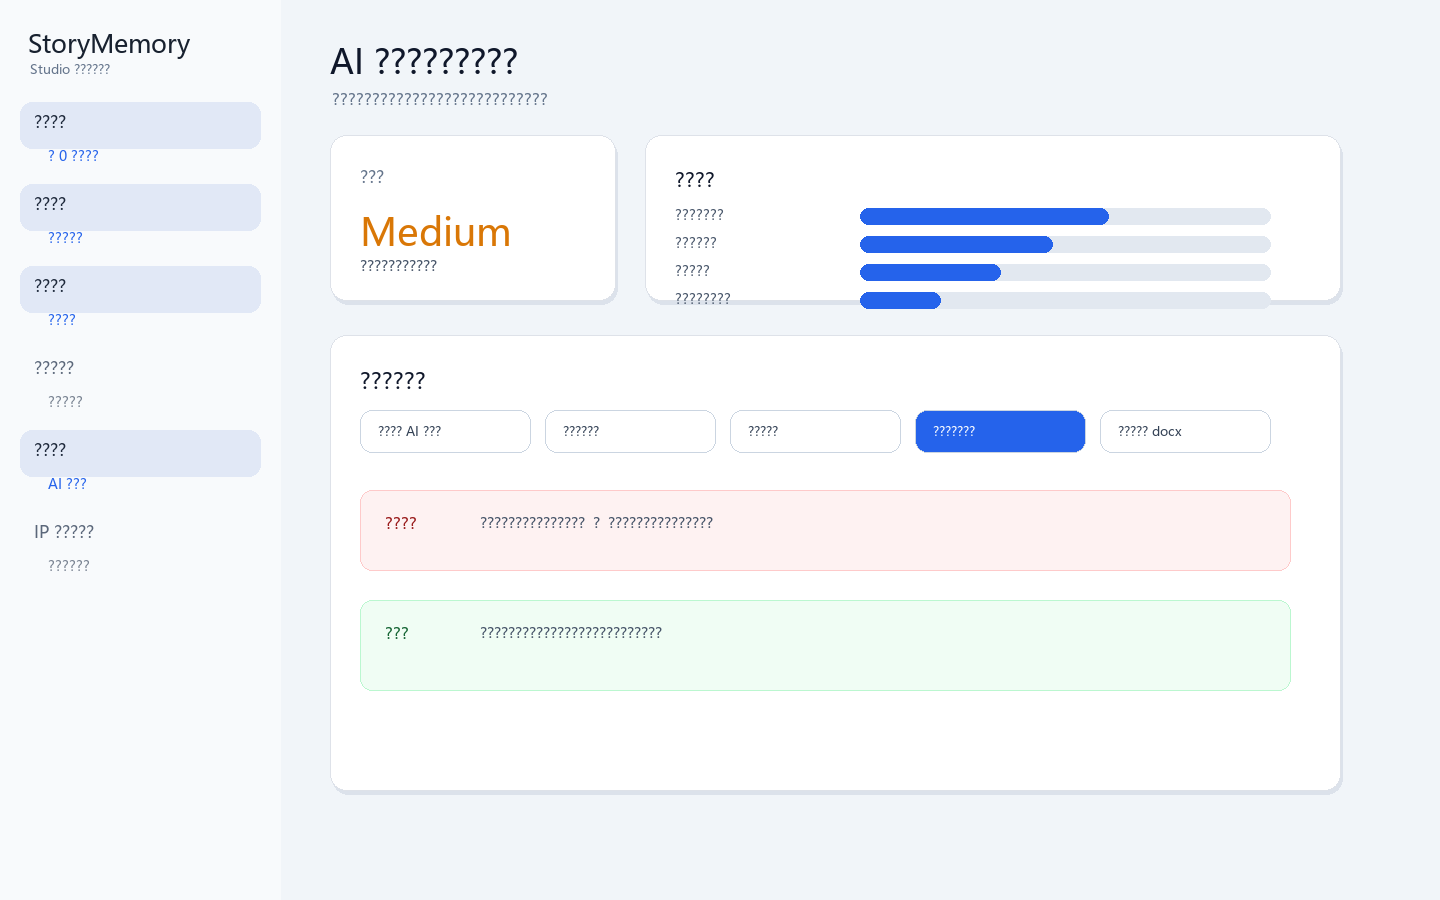
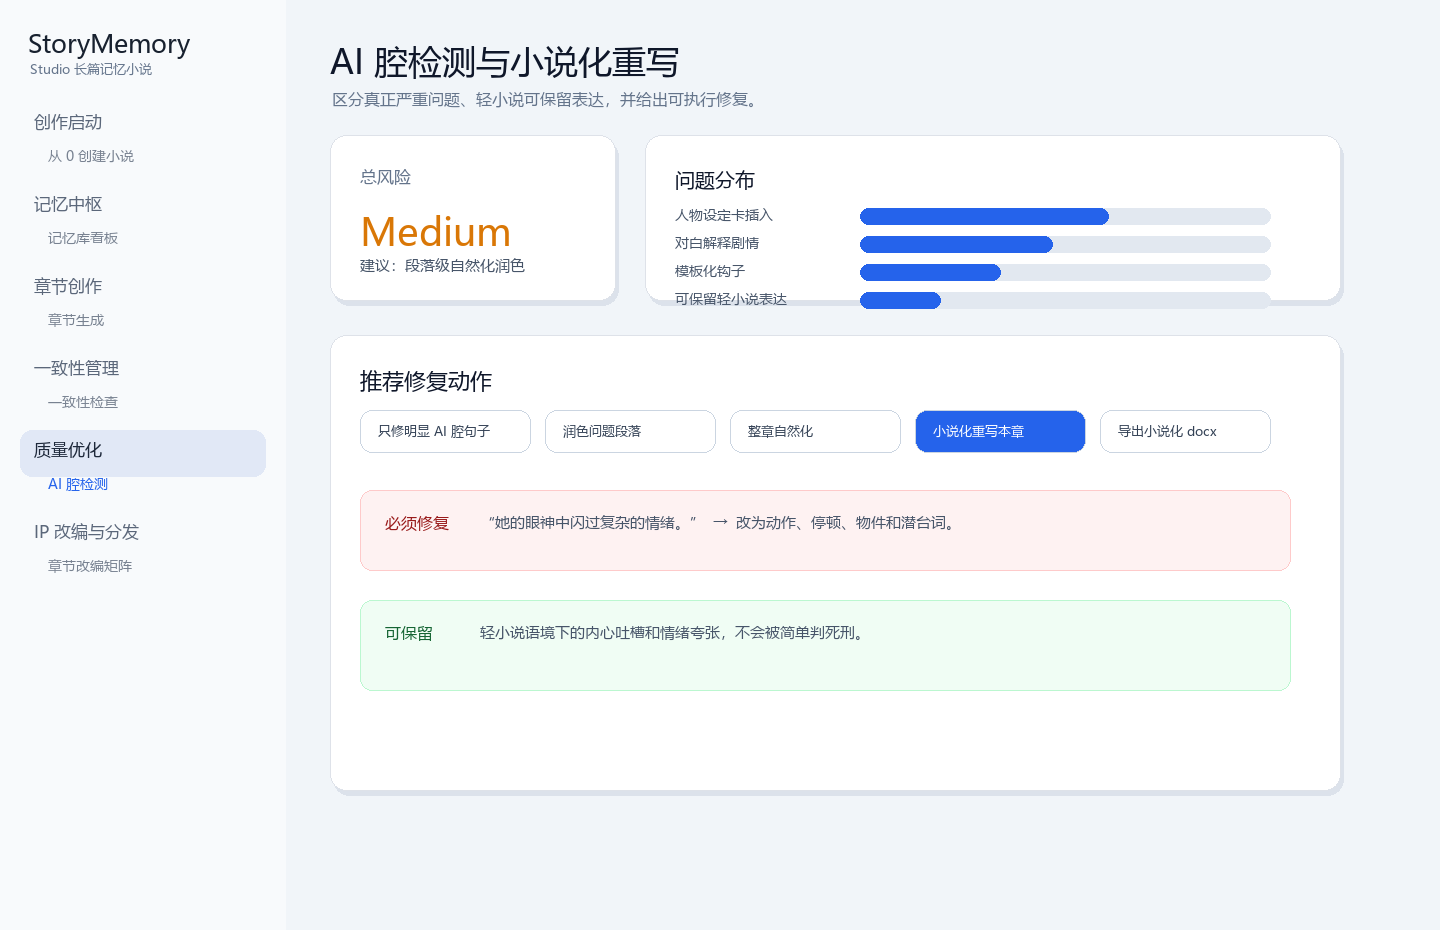
Fix README screenshots and add tech stack overview

diff --git a/scripts/generate_readme_screenshots.py b/scripts/generate_readme_screenshots.py
@@ -1,0 +1,177 @@
+from __future__ import annotations
+
+from pathlib import Path
+
+from PIL import Image, ImageDraw, ImageFont
+
+
+ROOT = Path(__file__).resolve().parents[1]
+OUT = ROOT / "docs" / "screenshots"
+OUT.mkdir(parents=True, exist_ok=True)
+
+FONT_CANDIDATES = [
+    Path(r"C:\Windows\Fonts\msyh.ttc"),
+    Path(r"C:\Windows\Fonts\simhei.ttf"),
+    Path(r"C:\Windows\Fonts\simsun.ttc"),
+    Path(r"C:\Windows\Fonts\arial.ttf"),
+]
+FONT_PATH = next((p for p in FONT_CANDIDATES if p.exists()), None)
+
+
+def font(size: int) -> ImageFont.FreeTypeFont | ImageFont.ImageFont:
+    if FONT_PATH:
+        return ImageFont.truetype(str(FONT_PATH), size)
+    return ImageFont.load_default()
+
+
+def rounded(draw: ImageDraw.ImageDraw, xy: tuple[int, int, int, int], radius: int, fill, outline=None, width: int = 1) -> None:
+    draw.rounded_rectangle(xy, radius=radius, fill=fill, outline=outline, width=width)
+
+
+def shadow_card(draw: ImageDraw.ImageDraw, xy: tuple[int, int, int, int], radius: int = 16) -> None:
+    x1, y1, x2, y2 = xy
+    rounded(draw, (x1 + 3, y1 + 5, x2 + 3, y2 + 5), radius, (220, 226, 235))
+    rounded(draw, xy, radius, (255, 255, 255), (222, 226, 233))
+
+
+def sidebar(draw: ImageDraw.ImageDraw, active_section: str, active_page: str) -> None:
+    draw.rectangle((0, 0, 285, 930), fill=(248, 250, 252))
+    draw.text((28, 26), "StoryMemory", font=font(25), fill=(24, 33, 47))
+    draw.text((30, 60), "Studio 长篇记忆小说", font=font(13), fill=(100, 116, 139))
+    y = 110
+    sections = [
+        ("创作启动", "从 0 创建小说"),
+        ("记忆中枢", "记忆库看板"),
+        ("章节创作", "章节生成"),
+        ("一致性管理", "一致性检查"),
+        ("质量优化", "AI 腔检测"),
+        ("IP 改编与分发", "章节改编矩阵"),
+    ]
+    for section, page in sections:
+        active = section == active_section
+        if active:
+            rounded(draw, (20, y - 8, 265, y + 38), 12, (225, 232, 246))
+        draw.text((34, y), section, font=font(17), fill=(30, 41, 59) if active else (91, 103, 122))
+        draw.text((48, y + 36), page, font=font(14), fill=(37, 99, 235) if active else (120, 130, 145))
+        y += 82
+
+
+def header(draw: ImageDraw.ImageDraw, title: str, subtitle: str) -> None:
+    draw.text((330, 38), title, font=font(34), fill=(15, 23, 42))
+    draw.text((332, 88), subtitle, font=font(16), fill=(100, 116, 139))
+
+
+def dashboard() -> None:
+    img = Image.new("RGB", (1440, 930), (241, 245, 249))
+    draw = ImageDraw.Draw(img)
+    sidebar(draw, "创作启动", "从 0 创建小说")
+    header(draw, "StoryMemory Studio", "SQL 结构化记忆库 + 长上下文 Prompt 编排器 + 长篇小说创作中控台")
+
+    stats = [("当前项目", "玫瑰大厦"), ("章节", "10"), ("人物卡", "14"), ("未回收伏笔", "9")]
+    x = 330
+    for label, value in stats:
+        shadow_card(draw, (x, 130, x + 235, 220))
+        draw.text((x + 22, 150), label, font=font(14), fill=(100, 116, 139))
+        draw.text((x + 22, 178), value, font=font(26), fill=(15, 23, 42))
+        x += 260
+
+    cards = [
+        ("创作启动", "从零创建小说、导入已有章节、管理项目。", "从 0 创建小说 / 项目管理 / 章节导入"),
+        ("记忆中枢", "人物、伏笔、时间线、世界观规则沉淀为可编辑数据库。", "记忆库看板 / 记忆编辑器 / 备份恢复"),
+        ("章节创作", "构建上下文、生成章节、编辑导出、接入文风画像。", "章节生成 / 文风学习器 / 模型设置"),
+        ("质量优化", "检测 AI 腔、诊断节奏、平台适配和伏笔回收。", "AI 腔检测 / 剧情节奏 / 平台适配"),
+    ]
+    for (title, desc, items), (x, y) in zip(cards, [(330, 265), (815, 265), (330, 505), (815, 505)]):
+        shadow_card(draw, (x, y, x + 445, y + 185))
+        draw.text((x + 24, y + 24), title, font=font(23), fill=(15, 23, 42))
+        draw.text((x + 24, y + 65), desc, font=font(15), fill=(71, 85, 105))
+        draw.text((x + 24, y + 108), items, font=font(14), fill=(37, 99, 235))
+        rounded(draw, (x + 24, y + 138, x + 120, y + 168), 10, (37, 99, 235))
+        draw.text((x + 54, y + 143), "进入", font=font(14), fill=(255, 255, 255))
+
+    shadow_card(draw, (330, 735, 1340, 890))
+    draw.text((360, 760), "技术架构", font=font(22), fill=(15, 23, 42))
+    tech = "SQLite / SQLAlchemy / Pydantic / Streamlit / Typer / Rich / httpx / Ollama / DeepSeek / python-docx / PyInstaller"
+    draw.text((360, 803), tech, font=font(16), fill=(37, 99, 235))
+    draw.text((360, 837), "本地结构化记忆库 + DeepSeek 百万 token 长上下文编排 + AI 腔治理 + IP 改编导出", font=font(15), fill=(71, 85, 105))
+    img.save(OUT / "dashboard.png")
+
+
+def context_builder() -> None:
+    img = Image.new("RGB", (1440, 930), (241, 245, 249))
+    draw = ImageDraw.Draw(img)
+    sidebar(draw, "章节创作", "章节生成")
+    header(draw, "章节生成", "按 S/A/B/C/D 优先级构建上下文，不把全书粗暴塞进 Prompt。")
+    shadow_card(draw, (330, 135, 665, 820))
+    draw.text((360, 165), "生成设置", font=font(22), fill=(15, 23, 42))
+    labels = ["本章目标", "本章大纲", "上下文预算", "模型提供方", "文风画像"]
+    values = ["推进继承权暗线", "晚宴后，旧账本浮出水面", "deepseek_long 800k", "Ollama / DeepSeek / OpenAI", "现代都市轻小说"]
+    y = 215
+    for label, value in zip(labels, values):
+        draw.text((360, y), label, font=font(14), fill=(100, 116, 139))
+        rounded(draw, (360, y + 24, 625, y + 70), 10, (248, 250, 252), (203, 213, 225))
+        draw.text((378, y + 38), value, font=font(13), fill=(51, 65, 85))
+        y += 92
+    rounded(draw, (360, 705, 510, 748), 12, (37, 99, 235))
+    draw.text((390, 716), "构建上下文", font=font(15), fill=(255, 255, 255))
+
+    shadow_card(draw, (700, 135, 1340, 820))
+    draw.text((730, 165), "Context Preview", font=font(22), fill=(15, 23, 42))
+    blocks = [
+        ("S 当前任务强相关", "当前章节目标、出场人物完整人物卡、相关伏笔、上一章事实"),
+        ("A 必须遵守硬设定", "世界观硬规则、禁止违背规则、时间线关键节点"),
+        ("B 长线辅助信息", "主线剧情、人物关系变化、未解决问题、道具状态"),
+        ("C 风格与平台适配", "文风画像、反 AI 腔规则、平台节奏、对话风格"),
+        ("D 压缩背景信息", "早期章节摘要树、全书总纲、历史归档信息"),
+    ]
+    colors = [(219, 234, 254), (220, 252, 231), (254, 249, 195), (243, 232, 255), (226, 232, 240)]
+    y = 215
+    for (title, body), color in zip(blocks, colors):
+        rounded(draw, (730, y, 1305, y + 75), 12, color, (203, 213, 225))
+        draw.text((750, y + 12), title, font=font(16), fill=(15, 23, 42))
+        draw.text((750, y + 40), body, font=font(13), fill=(71, 85, 105))
+        y += 93
+    img.save(OUT / "context-builder.png")
+
+
+def ai_tone() -> None:
+    img = Image.new("RGB", (1440, 930), (241, 245, 249))
+    draw = ImageDraw.Draw(img)
+    sidebar(draw, "质量优化", "AI 腔检测")
+    header(draw, "AI 腔检测与小说化重写", "区分真正严重问题、轻小说可保留表达，并给出可执行修复。")
+    shadow_card(draw, (330, 135, 615, 300))
+    draw.text((360, 165), "总风险", font=font(17), fill=(100, 116, 139))
+    draw.text((360, 205), "Medium", font=font(38), fill=(217, 119, 6))
+    draw.text((360, 255), "建议：段落级自然化润色", font=font(15), fill=(71, 85, 105))
+    shadow_card(draw, (645, 135, 1340, 300))
+    draw.text((675, 165), "问题分布", font=font(20), fill=(15, 23, 42))
+    y = 205
+    for name, value in [("人物设定卡插入", 62), ("对白解释剧情", 48), ("模板化钩子", 35), ("可保留轻小说表达", 20)]:
+        draw.text((675, y), name, font=font(14), fill=(71, 85, 105))
+        rounded(draw, (860, y + 3, 1270, y + 19), 8, (226, 232, 240))
+        rounded(draw, (860, y + 3, 860 + value * 4, y + 19), 8, (37, 99, 235))
+        y += 28
+
+    shadow_card(draw, (330, 335, 1340, 790))
+    draw.text((360, 365), "推荐修复动作", font=font(22), fill=(15, 23, 42))
+    x = 360
+    for action in ["只修明显 AI 腔句子", "润色问题段落", "整章自然化", "小说化重写本章", "导出小说化 docx"]:
+        active = action == "小说化重写本章"
+        rounded(draw, (x, 410, x + 170, 452), 12, (37, 99, 235) if active else (255, 255, 255), (203, 213, 225))
+        draw.text((x + 18, 422), action, font=font(13), fill=(255, 255, 255) if active else (51, 65, 85))
+        x += 185
+
+    rounded(draw, (360, 490, 1290, 570), 12, (254, 242, 242), (254, 202, 202))
+    draw.text((385, 512), "必须修复", font=font(16), fill=(153, 27, 27))
+    draw.text((480, 512), "“她的眼神中闪过复杂的情绪。”  →  改为动作、停顿、物件和潜台词。", font=font(15), fill=(71, 85, 105))
+    rounded(draw, (360, 600, 1290, 690), 12, (240, 253, 244), (187, 247, 208))
+    draw.text((385, 622), "可保留", font=font(16), fill=(22, 101, 52))
+    draw.text((480, 622), "轻小说语境下的内心吐槽和情绪夸张，不会被简单判死刑。", font=font(15), fill=(71, 85, 105))
+    img.save(OUT / "ai-tone-detector.png")
+
+
+if __name__ == "__main__":
+    dashboard()
+    context_builder()
+    ai_tone()
+    print(f"screenshots written to {OUT}")

diff --git a/app/ui/layout.py b/app/ui/layout.py
@@ -58,6 +58,11 @@ def inject_css() -> None:
         .story-tag { display: inline-block; border: 1px solid var(--story-line); background: #f8fafc; color: #475569; border-radius: 999px; padding: .2rem .48rem; font-size: .78rem; line-height: 1.2; }
         .story-workflow { background: #fff; border: 1px solid var(--story-line); border-radius: 8px; padding: 1rem; margin-top: .8rem; }
         .story-workflow h3 { margin: 0 0 .75rem 0; font-size: 1rem; }
+        .story-muted-line { color: var(--story-muted); font-size: .9rem; line-height: 1.65; margin: -.25rem 0 .85rem 0; }
+        .story-tech-grid { display: grid; grid-template-columns: repeat(4, minmax(0, 1fr)); gap: .7rem; }
+        .story-mini-card { border: 1px solid var(--story-line); border-radius: 8px; padding: .75rem; background: #f8fafc; min-height: 105px; }
+        .story-mini-card b { display: block; color: var(--story-ink); font-size: .9rem; margin-bottom: .35rem; }
+        .story-mini-card span { display: block; color: var(--story-muted); font-size: .8rem; line-height: 1.55; }
         .story-steps { display: grid; grid-template-columns: repeat(4, minmax(0, 1fr)); gap: .7rem; }
         .story-step { border: 1px solid var(--story-line); border-radius: 8px; padding: .75rem; background: #f8fafc; }
         .story-step b { display: block; font-size: .9rem; margin-bottom: .3rem; }
@@ -203,6 +208,7 @@ def render_dashboard(project: str | None) -> None:
     snapshot = dashboard_snapshot(project)
     _render_dashboard_intro(project, snapshot)
     _render_metrics(project, snapshot)
+    _render_tech_stack()
 
     st.subheader("功能板块")
     items = list(NAVIGATION.items())
@@ -232,6 +238,41 @@ def render_dashboard(project: str | None) -> None:
                     st.rerun()
 
     _render_workflow()
+
+
+def _render_tech_stack() -> None:
+    tech_items = [
+        ("本地数据", "SQLite + SQLAlchemy，项目数据默认保存在本机 data/ 目录。"),
+        ("长上下文编排", "Context Builder 按 S/A/B/C/D 优先级组织 DeepSeek 百万 token 级上下文。"),
+        ("模型接入", "支持 DeepSeek、OpenAI-compatible、OpenAI 与 Ollama 本地模型。"),
+        ("前端界面", "Streamlit 本地 Web UI，可通过 PyInstaller 打包为 Windows exe。"),
+        ("结构化校验", "Pydantic 校验 LLM JSON 输出，并带有 JSON 修复机制。"),
+        ("导出能力", "python-docx 导出 docx，支持 md、txt、json 等文本资产。"),
+        ("质量治理", "AI 腔检测、humanizer-zh、小说化重写、节奏诊断与一致性检查。"),
+        ("IP 改编", "章节可转漫画分镜、短剧脚本、视频分镜、小红书文案和海报提示词。"),
+    ]
+    cards = "".join(
+        f"""
+        <div class="story-mini-card">
+          <b>{title}</b>
+          <span>{body}</span>
+        </div>
+        """
+        for title, body in tech_items
+    )
+    st.markdown(
+        f"""
+        <div class="story-workflow">
+          <h3>技术架构</h3>
+          <p class="story-muted-line">
+            StoryMemory Studio 使用“本地结构化记忆库 + 长上下文 Prompt 编排 + 多模型接入 + 质量反馈闭环”的架构，
+            让长篇创作既能保留可编辑的事实来源，也能利用 DeepSeek 等长上下文模型做全局理解与一致性检查。
+          </p>
+          <div class="story-tech-grid">{cards}</div>
+        </div>
+        """,
+        unsafe_allow_html=True,
+    )
 
 
 def render_selected_page(project: str | None, section: str, page: str) -> None:

diff --git a/README.md b/README.md
@@ -196,6 +196,42 @@ StoryMemory Studio improves long-context hit rate by:
 
 ---
 
+## Technology Stack / 技术栈
+
+StoryMemory Studio is intentionally built as a practical local desktop MVP, not a cloud-only demo.
+
+StoryMemory Studio 的技术选型优先考虑：本地可运行、数据可控、方便打包、方便后续扩展。
+
+| Layer | Technology | Why it is used |
+| --- | --- | --- |
+| Local UI | Streamlit | Fast local visual interface, friendly for non-technical users |
+| Desktop packaging | PyInstaller | Builds a double-clickable Windows exe |
+| Database | SQLite | Local-first structured story memory |
+| ORM / SQL | SQLAlchemy + sqlite3 | Stable database access and schema initialization |
+| Data validation | Pydantic | Validate LLM JSON outputs before writing memory |
+| CLI | Typer + Rich | Developer and power-user command line workflows |
+| LLM calls | httpx | DeepSeek, OpenAI-compatible, OpenAI, and Ollama HTTP APIs |
+| Local models | Ollama | Offline/private local generation path |
+| Long-context orchestration | Context Builder | S/A/B/C/D priority prompt assembly for DeepSeek-style long context |
+| Export | python-docx | Export chapters and full projects as docx |
+| Quality layer | AI Tone Detector + humanizer-zh + Novelization Rewriter | Reduce AI flavor and convert exposition-heavy text into scene-driven fiction |
+
+| 层级 | 技术 | 用途 |
+| --- | --- | --- |
+| 本地界面 | Streamlit | 普通用户可直接打开浏览器使用 |
+| Windows 打包 | PyInstaller | 生成可双击启动的 exe |
+| 本地数据库 | SQLite | 保存人物、伏笔、时间线、章节事实等结构化记忆 |
+| 数据访问 | SQLAlchemy + sqlite3 | 初始化数据库和读写 Story Memory |
+| 结构化校验 | Pydantic | 校验 LLM 输出 JSON，避免脏数据入库 |
+| 命令行 | Typer + Rich | 给高级用户和自动化测试使用 |
+| 模型请求 | httpx | 接入 DeepSeek、OpenAI-compatible、OpenAI、Ollama |
+| 本地模型 | Ollama | 支持离线/私有化生成 |
+| 长上下文编排 | Context Builder | 按 S/A/B/C/D 优先级适配 DeepSeek 百万 token 长上下文 |
+| 文档导出 | python-docx | 导出 docx 小说正文和设定包 |
+| 质量治理 | AI Tone Detector + humanizer-zh + Novelization Rewriter | 降低 AI 腔，把说明型章节改成场景驱动叙事 |
+
+---
+
 ## Navigation / 界面导航
 
 The UI is grouped into six primary sections: